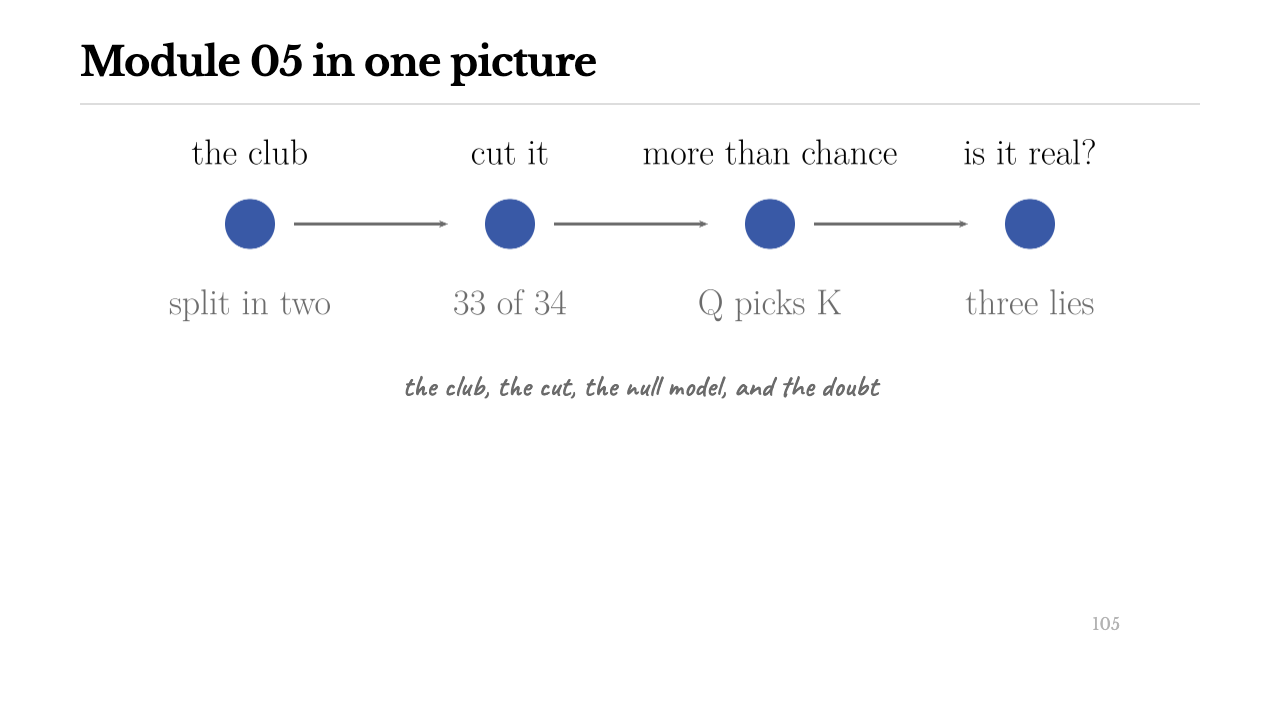
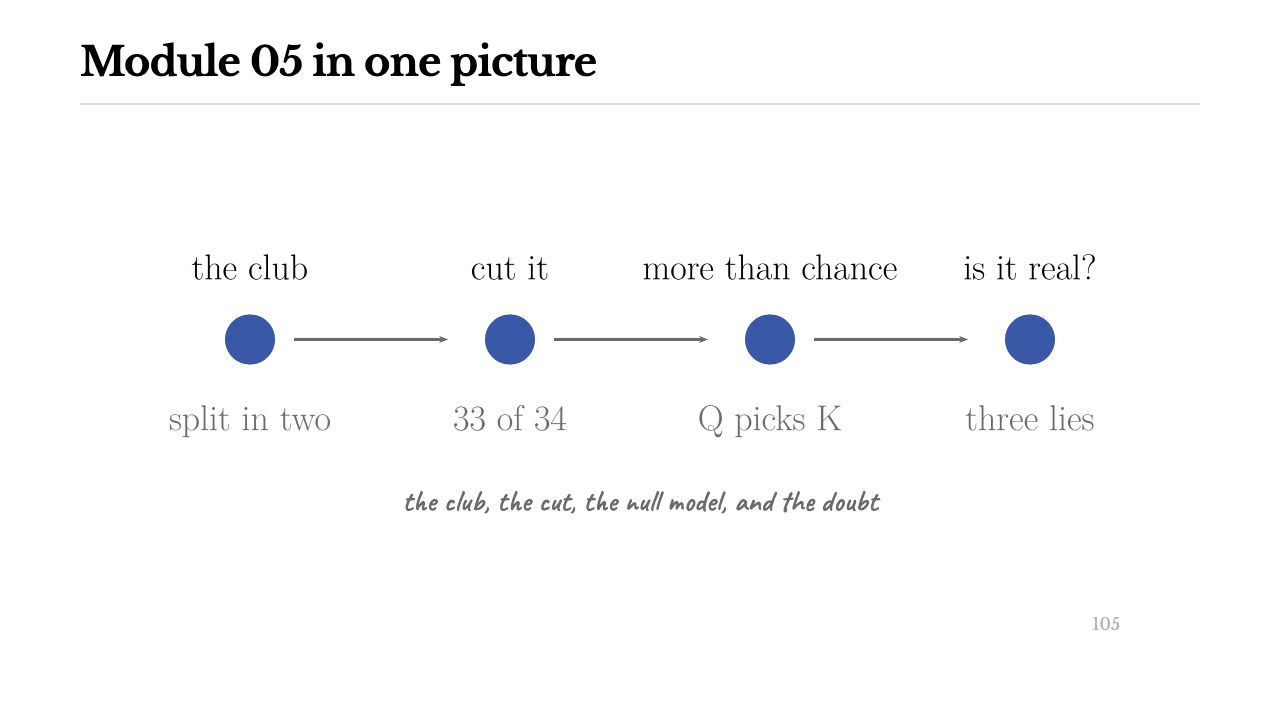
m05 R1 fixes: the collision the gate could not see
Round 1 was run by me alone: all four subagent reviewers died on a session limit
before reporting, so coverage this round is one careful pass over the render, not
four. Recording that here rather than letting the round read as a full review.

What the render showed that check_render.py cannot:

- number_line() put every label at a fixed offset from its own tick, so two marks
  close together printed straight through each other -- 'the rule of thumbthe real
  split' on slide 85, 'the real split' over 'Louvain' on slide 90. Fixed at the
  generator: labels now walk outward row by row and take the first that collides
  with nothing, and the build fails if no row exists.
- three-partitions.png and best-vs-real.png were byte-identical while their slides
  explained them differently -- and slide 87 claimed to show three answers while
  showing one. Two files now: what modularity picks, and that same pick with the
  real split drawn through it.
- applications and recap alternated the deck's two club colours across four groups
  that encode nothing (F1).
- 'kept apart' sat on top of the y-axis tick reading 20.

diff --git a/docs/slide/new/m05/m05-clustering.md b/docs/slide/new/m05/m05-clustering.md
@@ -913,6 +913,7 @@ Half and half here, so the expected match rate is 1/2. Any grouping has such a n
 
 ---
 
+<!-- _class: mid -->
 ## Modularity is the gap
 
 <hr>
@@ -1723,6 +1724,7 @@ m05.c35, first half. If the method were perfect, knowing its label would tell yo
 
 ---
 
+<!-- _class: mid -->
 ## Divide by how much there was to know
 
 <hr>
@@ -1802,6 +1804,7 @@ Somebody will say "subtract what you would get by chance". That is exactly right
 
 ---
 
+<!-- _class: mid -->
 ## Subtract what chance would have given
 
 <hr>
@@ -1855,6 +1858,7 @@ Let that sit. Maximising the score does not find the event. The optimum is not t
 
 ---
 
+<!-- _class: mid -->
 ## And it matches reality less well than the 1977 answer
 
 <hr>
@@ -1939,6 +1943,7 @@ m05.c37. In every one of them the ground-truth problem from the last slide is li
 
 ---
 
+<!-- _class: mid -->
 ## Module 05 in one picture
 
 <hr>
